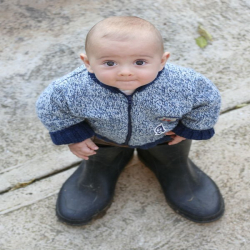
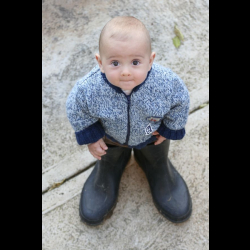
to mentor

diff --git a/controllers/auth-controller.js b/controllers/auth-controller.js
@@ -98,18 +98,16 @@ const subscriptionChange = async (req, res) => {
 const updateAvatar = async (req, res) => {
   const { _id } = req.user;
 
-  const { path: tempUpload, originalname, destination } = req.file;
+  const { path: tempUpload, originalname } = req.file;
   const fileName = `${_id}_${originalname}`;
   const resultUpload = path.resolve(avatarsDir, fileName);
 
-  const jimpWrite = path.join(destination, fileName);
-  console.log("jimpWrite :>> ", jimpWrite);
-  await Jimp.read(tempUpload, (err, img) => {
-    if (err) throw err;
-    img.resize(250, 250).write(resultUpload);
+  Jimp.read(tempUpload, (err, img) => {
+    if (err) throw HttpError(404, err);
+    img.contain(250, 250).write(resultUpload);
   });
 
-  // await fs.rename(tempUpload, resultUpload);
+  await fs.unlink(tempUpload);
 
   const avatarURL = path.join("avatars", fileName);
   await UserDB.findByIdAndUpdate(_id, { avatarURL });

diff --git a/models/user.js b/models/user.js
@@ -39,7 +39,10 @@ const userSchema = new Schema(
       required: [true, "Subscription is required"],
       default: "starter",
     },
-    avatarURL: String,
+    avatarURL: {
+      type: String,
+      required: true,
+    },
     token: {
       type: String,
       default: null,
